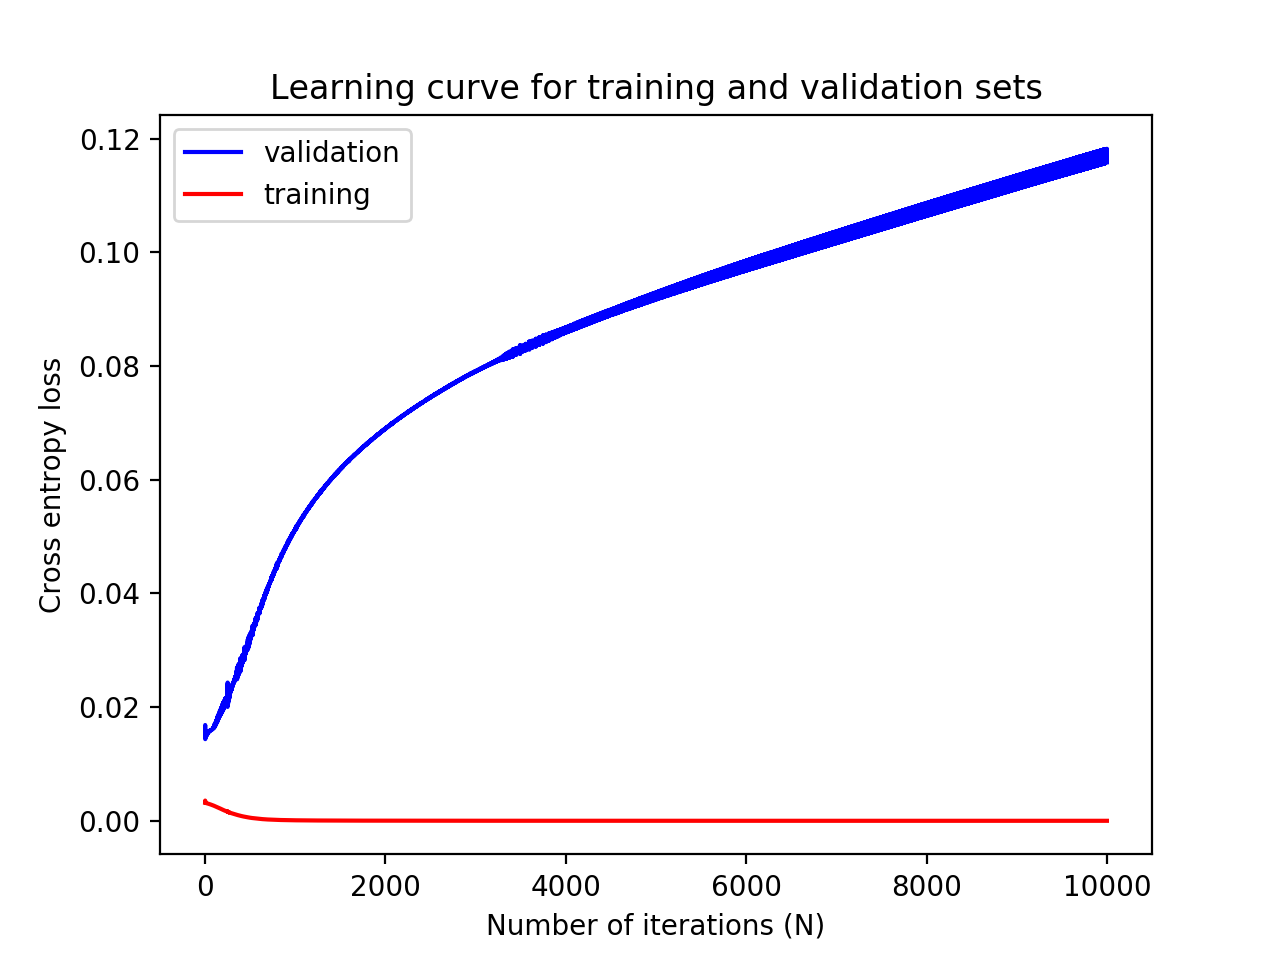
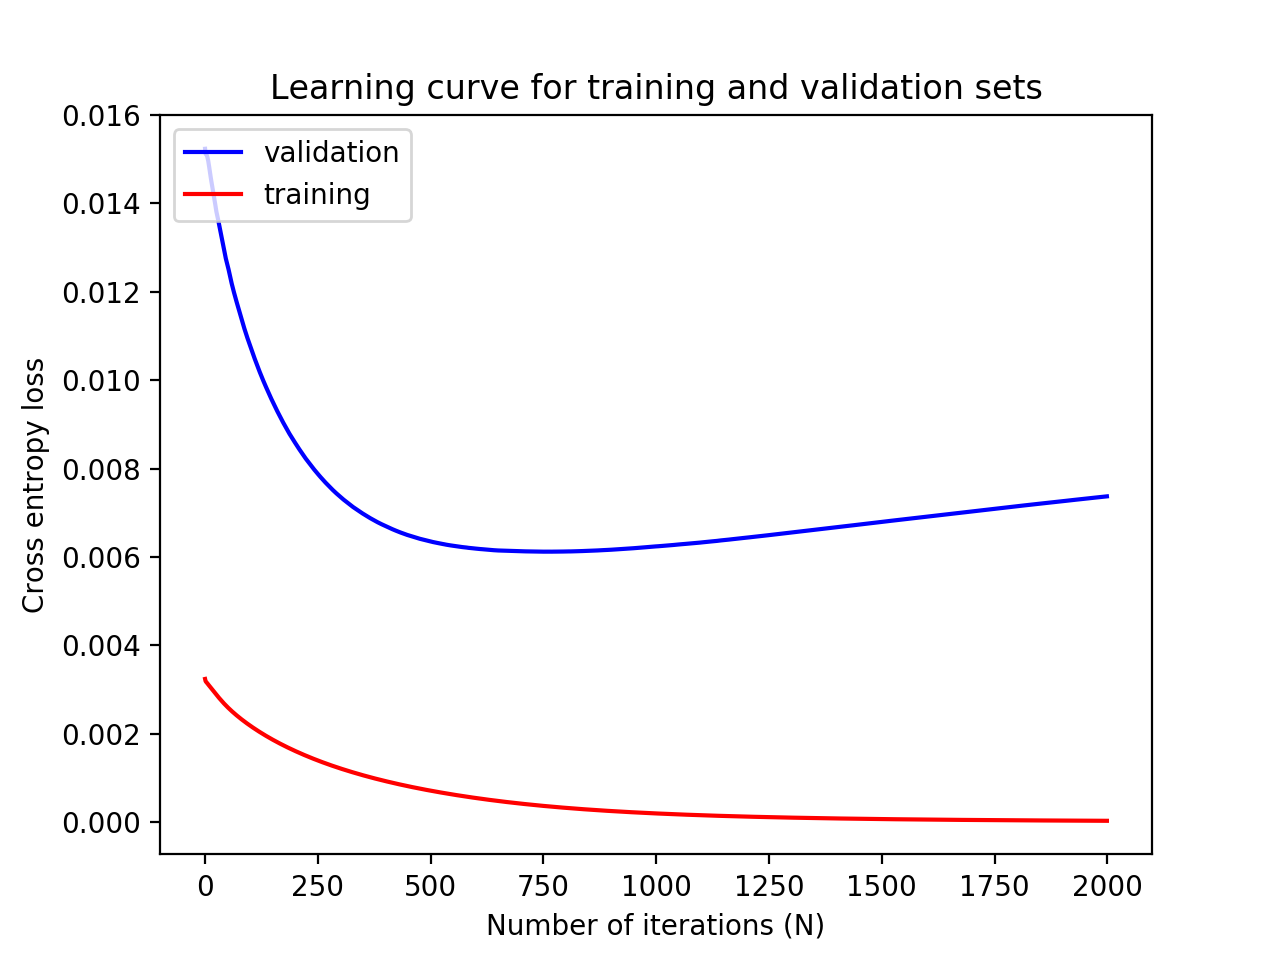
finished

diff --git a/mp4.py b/mp4.py
@@ -7,17 +7,19 @@ from torch.autograd import Variable
 import torch
 
 imgList = os.listdir(path='./data/cropped64') # list of image names
+imgList.sort()
 images = []
+tags = []
 
 for image in imgList:
 	currMatrix = array(mpimg.imread('./data/cropped64/' + image)[:, :, :3])
-	# black - white is 000 to 255 255 255 so average
-	currMatrix = (currMatrix[:,:,0] + currMatrix[:,:,1] + currMatrix[:,:,2]) / 3
+	# black - white is 000 to 255 255 255 so average r g b
+	currMatrix = (currMatrix[:,:,0] + currMatrix[:,:,1] + currMatrix[:,:,2]) / 3.
 	images.append(currMatrix.flatten())
 
 images = array(images) # Part 1 and 2 -- list of grayscale images matrices (64 by 64)
 
-# FOR REPORT display a few images in subplot
+# FOR REPORT display a few images in subplot -- 4Angies.png
 # print 4 Angies in a 2 by 2
 def plot4Angies():
 	subplotList = ['0', '53', '100', '151']
@@ -30,7 +32,7 @@ def plot4Angies():
 
 # FOR REPORT: yeah prob registered
 
-# FOR REPORT example gray scale image
+# FOR REPORT example gray scale image -- grayAngie.png
 def plotExGrayscale():
 	exImag = array(mpimg.imread('./data/cropped64/AngieHarmon0.png')[:, :, :3])
 	exImag = (exImag[:,:,0] + exImag[:,:,1] + exImag[:,:,2]) / 3
@@ -49,7 +51,6 @@ tags.extend([2] * 119) # 'gerard'
 tags.extend([3] * 147) # 'lorraine'
 tags.extend([4] * 134) # 'michael'
 tags.extend([5] * 144) # 'peri'
-
 tags = array(tags)
 
 trainProp = 0.70
@@ -95,9 +96,9 @@ def noHidden():
 	loss_train = []
 	loss_valid = [] 
 
-	learning_rate = 1e-3
+	learning_rate = 1e-4
 	
-	N = 10000 
+	N = 2000 
 	loss_fn = torch.nn.CrossEntropyLoss()
 	optimizer = torch.optim.Adam(model_logreg.parameters(), lr=learning_rate)
 
@@ -114,7 +115,7 @@ def noHidden():
 	    loss.backward()   
 	    optimizer.step()   
 
-	# FOR REPORT learning curve -- uhh looks ok? a little funky at the end
+	# FOR REPORT learning curve -- noHidden_learn.png
 	plt.plot(range(N), loss_valid, color='b', label='validation')
 	plt.plot(range(N), loss_train, color='r', label='training')
 	plt.legend(loc='upper left')
@@ -125,7 +126,7 @@ def noHidden():
 
 	y_testpred = model_logreg(x_test).data.numpy()
 
-	# FOR REPORT accuracy on test set -- 0.1885245901639344 -- this ok ? rip 
+	# FOR REPORT accuracy on test set -- 0.811672131147541
 	print('accuracy on testing set: ', np.mean(np.argmax(y_testpred, 1) == test_y))
 
 	# # FOR REPORT? weights from first 10 inputs to each actor output
@@ -136,7 +137,7 @@ def noHidden():
 	# print(model_logreg[0].weight.data.numpy()[4, :10]) # 'michael'
 	# print(model_logreg[0].weight.data.numpy()[5, :10]) # 'peri'
 
-	# FOR REPORT plot of weights
+	# FOR REPORT plot of weights -- noHidden_weights.png
 	nameList= ['Angie Harmon', 'Daniel Radcliffe', 'Gerard Butler', 'Lorraine Bracco', 'Michael Vartan', 'Peri Gilpin']
 	for i in range(6):
 		plt.subplot(2, 3, i + 1)
@@ -157,9 +158,9 @@ def hidden():
 	loss_train = []
 	loss_valid = [] 
 
-	learning_rate = 1e-3
+	learning_rate = 1e-4
 
-	N = 10000 
+	N = 2000 
 	loss_fn = torch.nn.CrossEntropyLoss()
 	optimizer = torch.optim.Adam(model.parameters(), lr=learning_rate)
 
@@ -176,7 +177,7 @@ def hidden():
 	    loss.backward()   
 	    optimizer.step()   
 
-	# FOR REPORT learning curve -- looks ok ? 
+	# FOR REPORT learning curve -- hidden_learn.png
 	plt.plot(range(N), loss_valid, color='b', label='validation')
 	plt.plot(range(N), loss_train, color='r', label='training')
 	plt.legend(loc='upper left')
@@ -187,10 +188,31 @@ def hidden():
 
 	y_testpred = model(x_test).data.numpy()
 
-	# FOR REPORT accuracy on test set -- 0.20491803278688525 -- rip idk
+	# FOR REPORT accuracy on test set -- 0.8278688524590164
 	print('accuracy on testing set: ', np.mean(np.argmax(y_testpred, 1) == test_y))
 
-	# FOR REPORT plot of weights
+	# FOR REPORT -- daniel_important.png
+	# 0.2660112 and 0.21285294 were the weights for unit 1 and 16, respectively
+	# top weights for daniel
+	weights = model[2].weight.data.numpy()[1, :] 
+	print(weights)
+	top = np.argsort(weights)[-1]
+	top2 = np.argsort(weights)[-2]
+	print(model[2].weight.data.numpy()[1, top])
+	print(model[2].weight.data.numpy()[1, top2])
+
+	plt.subplot(1, 2, 1)
+	plt.imshow(model[0].weight.data.numpy()[top, :].reshape((64, 64)), cmap='coolwarm')
+	plt.axis('off')
+	plt.title('Unit ' + str(top + 1))
+
+	plt.subplot(1, 2, 2)
+	plt.imshow(model[0].weight.data.numpy()[top2, :].reshape((64, 64)), cmap='coolwarm')
+	plt.axis('off')
+	plt.title('Unit ' + str(top2 + 1))
+	plt.show()
+
+	# FOR REPORT plot of weights -- hidden_weights.png
 	plt.rcParams.update({'font.size': 5})
 	for i in range(30):
 		plt.subplot(5, 6, i + 1)
@@ -200,6 +222,3 @@ def hidden():
 #	plt.suptitle('Weights from Inputs to Hidden Units')
 	plt.tight_layout(pad=0.1)
 	plt.show()
-
-noHidden()
-# Part 7 -- he explained it but I wasn't paying attention rip
